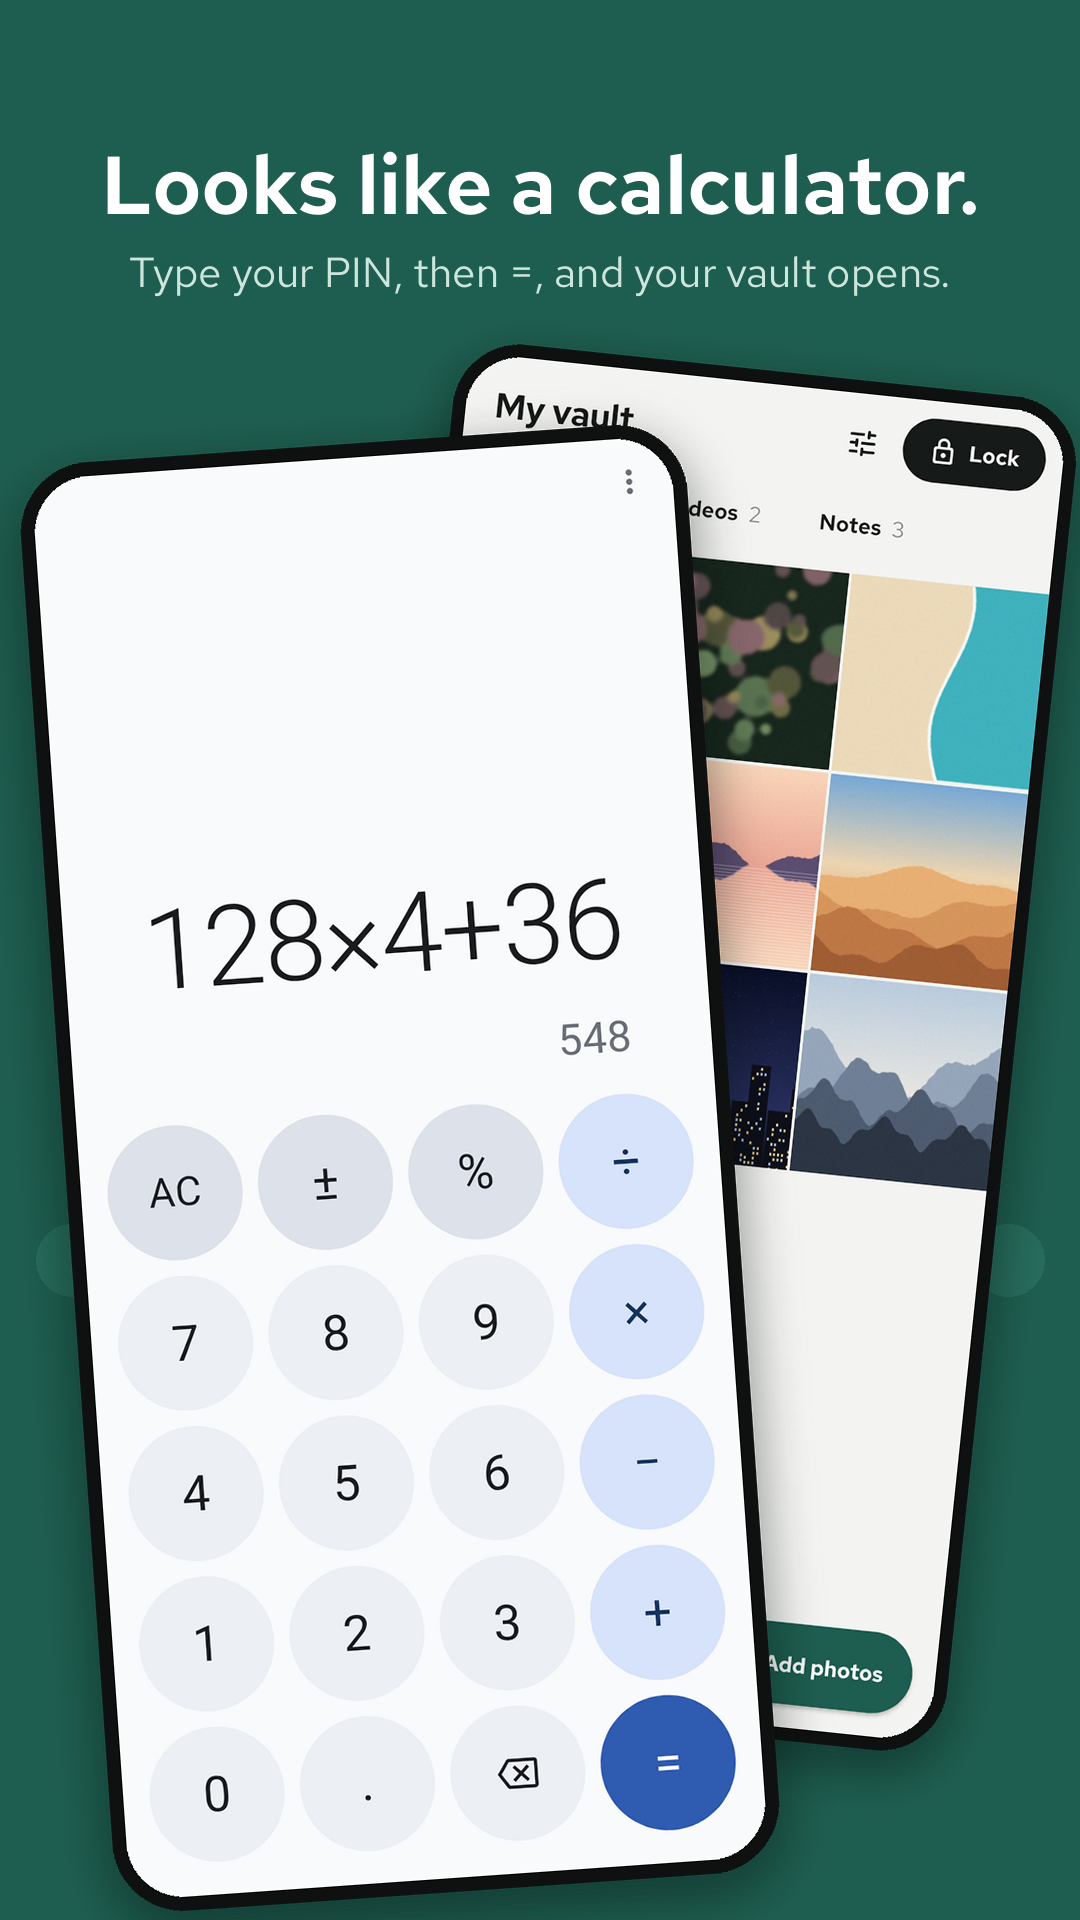
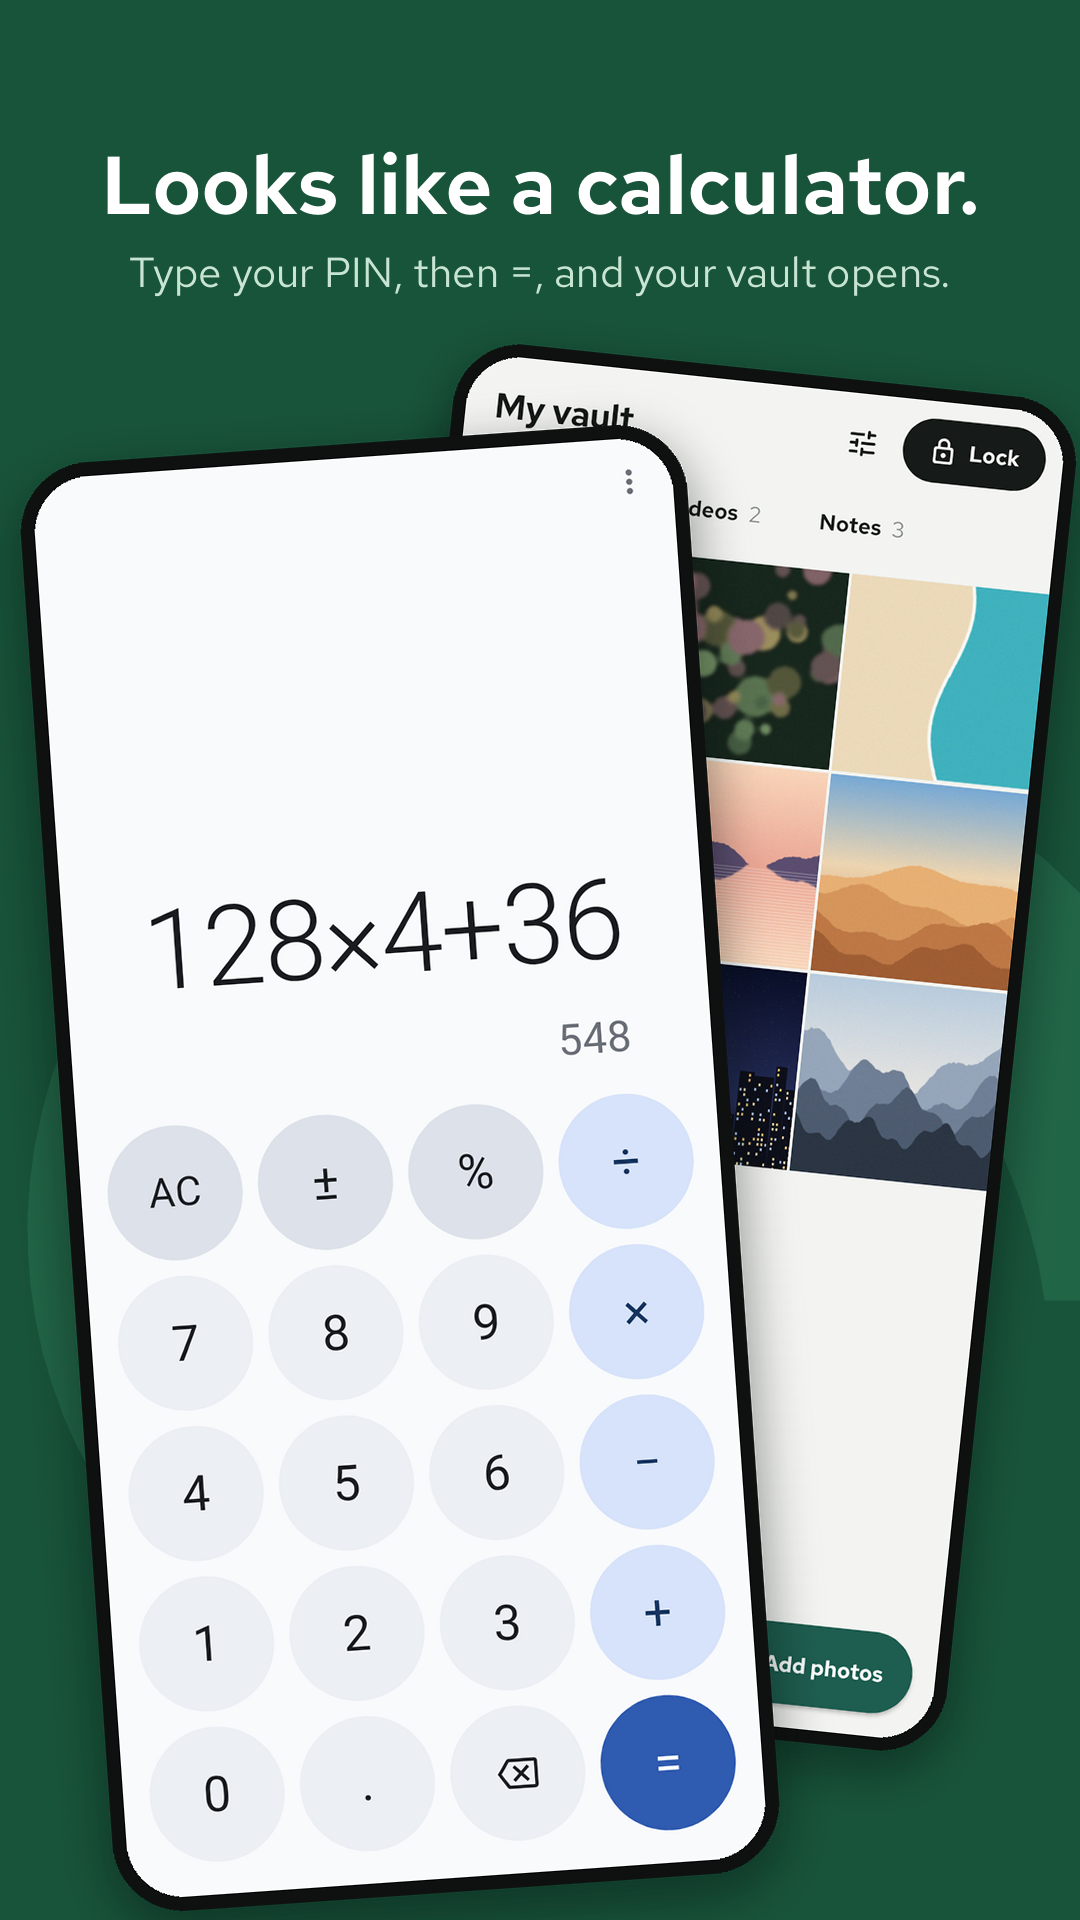
Paint the store pictures in the chameleon's jade with its tail behind the phones

Changed region(s): [[0.6722, 0.5312, 0.9167, 0.625], [0.7639, 0.4375, 0.9472, 0.5], [0.9167, 0.625, 0.9778, 0.6875]]

diff --git a/store/tools/store_art.py b/store/tools/store_art.py
@@ -16,14 +16,16 @@ from pathlib import Path
 
 from PIL import Image, ImageDraw, ImageFilter, ImageFont
 
+from icons import spiral_edges
+
 ROOT = Path(__file__).resolve().parents[2]
 OUT = ROOT / "assets/store"
 FONTS = ROOT / "assets/fonts"
 
-SPRUCE = (30, 94, 80)
-DIAL = (38, 108, 92)
+JADE = (24, 84, 58)
+TAIL = (33, 101, 71)
 INK = (255, 255, 255)
-SUB = (205, 230, 220)
+SUB = (200, 228, 210)
 BEZEL = (14, 17, 16)
 
 SHOTS = [
@@ -60,16 +62,24 @@ def wrap(draw, text, fnt, width):
     return list(min(fitting or splits, key=lambda s: max(draw.textlength(l, font=fnt) for l in s)))
 
 
-def dial(canvas, centre, radius):
-    """The vault dial from the app icon, as one quiet shape behind the phones."""
-    d = ImageDraw.Draw(canvas)
-    cx, cy = centre
-    d.ellipse([cx - radius, cy - radius, cx + radius, cy + radius], outline=DIAL, width=int(radius * 0.16))
-    for k in range(8):
-        a = k * math.pi / 4
-        x, y = cx + math.cos(a) * radius * 1.3, cy + math.sin(a) * radius * 1.3
-        r = radius * 0.1
-        d.ellipse([x - r, y - r, x + r, y + r], fill=DIAL)
+def tail(canvas, centre, radius):
+    """The chameleon's tail from the app icon, as one quiet spiral behind the phones.
+
+    It starts off the right edge, so only its curl shows.
+    """
+    ss = 2
+    b, k = math.log(2.4) / (2 * math.pi), 0.36
+    a1 = math.log(0.12) / b
+    outer, inner, mid = spiral_edges((centre[0] * ss, centre[1] * ss), 0, radius * ss, b, k, a1)
+    mask = Image.new("L", (canvas.width * ss, canvas.height * ss), 0)
+    d = ImageDraw.Draw(mask)
+    d.polygon(outer + inner[::-1], fill=255)
+    tx, ty, tr = mid[-1]
+    cap = tr * k / 2
+    d.ellipse([tx - cap, ty - cap, tx + cap, ty + cap], fill=255)
+    shape = Image.new("RGBA", canvas.size, TAIL + (255,))
+    shape.putalpha(mask.resize(canvas.size, Image.LANCZOS))
+    canvas.alpha_composite(shape)
 
 
 def phone(raw, width):
@@ -120,8 +130,8 @@ def caption(canvas, head, sub, top=130):
 
 
 def shot(spec, raw_dir):
-    canvas = Image.new("RGBA", (1080, 1920), SPRUCE + (255,))
-    dial(canvas, (540, 1260), 360)
+    canvas = Image.new("RGBA", (1080, 1920), JADE + (255,))
+    tail(canvas, (520, 1300), 640)
     below = caption(canvas, spec["head"], spec["sub"])
     raw = lambda name: raw_dir / f"{name}.png"
     if spec["layout"] == "screen":
@@ -146,10 +156,10 @@ def shot(spec, raw_dir):
 
 
 def feature(raw_dir):
-    canvas = Image.new("RGBA", (1024, 500), SPRUCE + (255,))
-    dial(canvas, (800, 250), 170)
+    canvas = Image.new("RGBA", (1024, 500), JADE + (255,))
+    tail(canvas, (790, 270), 300)
     d = ImageDraw.Draw(canvas)
-    icon = Image.open(ROOT / "assets/icons/shield_icon.png").convert("RGBA").resize((112, 112), Image.LANCZOS)
+    icon = Image.open(ROOT / "assets/icons/vault_icon.png").convert("RGBA").resize((112, 112), Image.LANCZOS)
     canvas.alpha_composite(icon, (64, 92))
     d.text((64, 222), "SecureVault", font=font("semibold", 68), fill=INK)
     tf = font("regular", 30)
